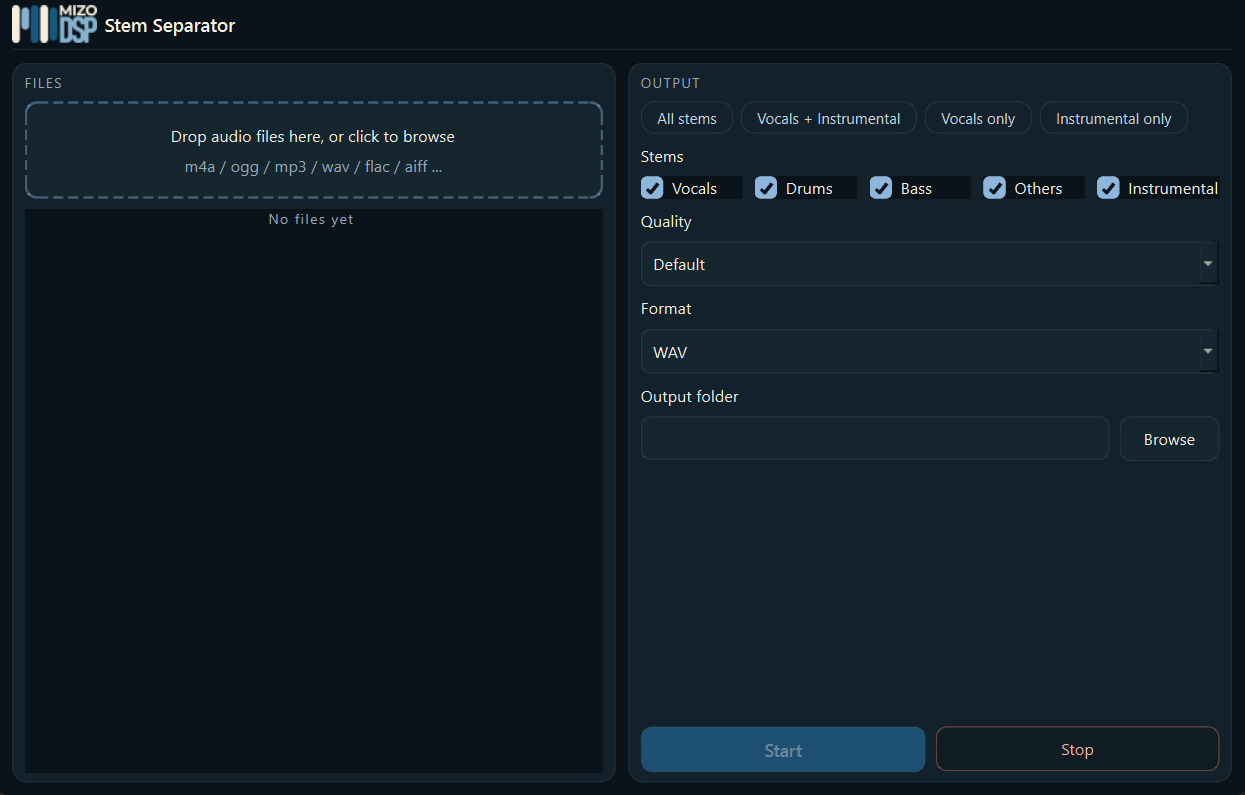
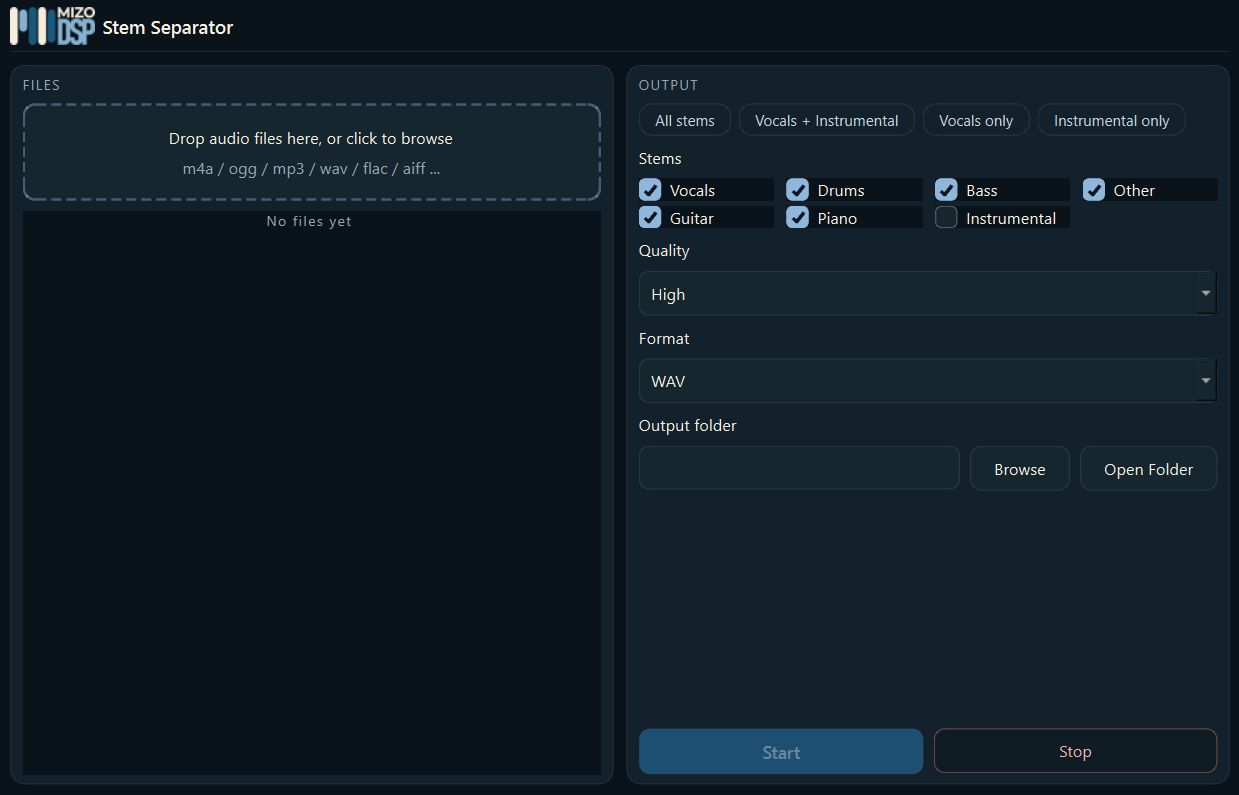
Update Stem Separator screenshot and share thumbnail for the six-stem UI
New app capture (1239x795) with vocals, drums, bass, guitar, piano, other and instrumental toggles; OG thumbnail regenerated from it.

diff --git a/stem-separator.html b/stem-separator.html
@@ -78,8 +78,8 @@
       <figure class="product__stage reveal">
         <div class="product__render-box">
           <img class="product__render-img" src="assets/StemSeparator_UI.png"
-               alt="Stem Separator at launch: an empty drag-and-drop file queue on the left, and stem, quality, format and output folder options on the right."
-               width="1245" height="795" fetchpriority="high" />
+               alt="Stem Separator at launch: an empty drag-and-drop file queue on the left, and vocal, drum, bass, guitar, piano and other stem options with quality, format and output folder on the right."
+               width="1239" height="795" fetchpriority="high" />
         </div>
         <figcaption class="product__caption">
           <span class="product__caption-text">Stem Separator · App interface</span>

diff --git a/index.html b/index.html
@@ -218,7 +218,7 @@
       <figure class="stem-home__stage reveal">
         <img src="assets/StemSeparator_UI.png"
              alt="Stem Separator at launch: an empty file queue on the left, with stem, quality, format and output options on the right."
-             width="1245" height="795" />
+             width="1239" height="795" />
         <figcaption class="stem-home__caption">
           <span>Stem Separator · App interface</span>
           <span>6 stems · Instrumental · WAV / FLAC / MP3 / M4A / OGG</span>
